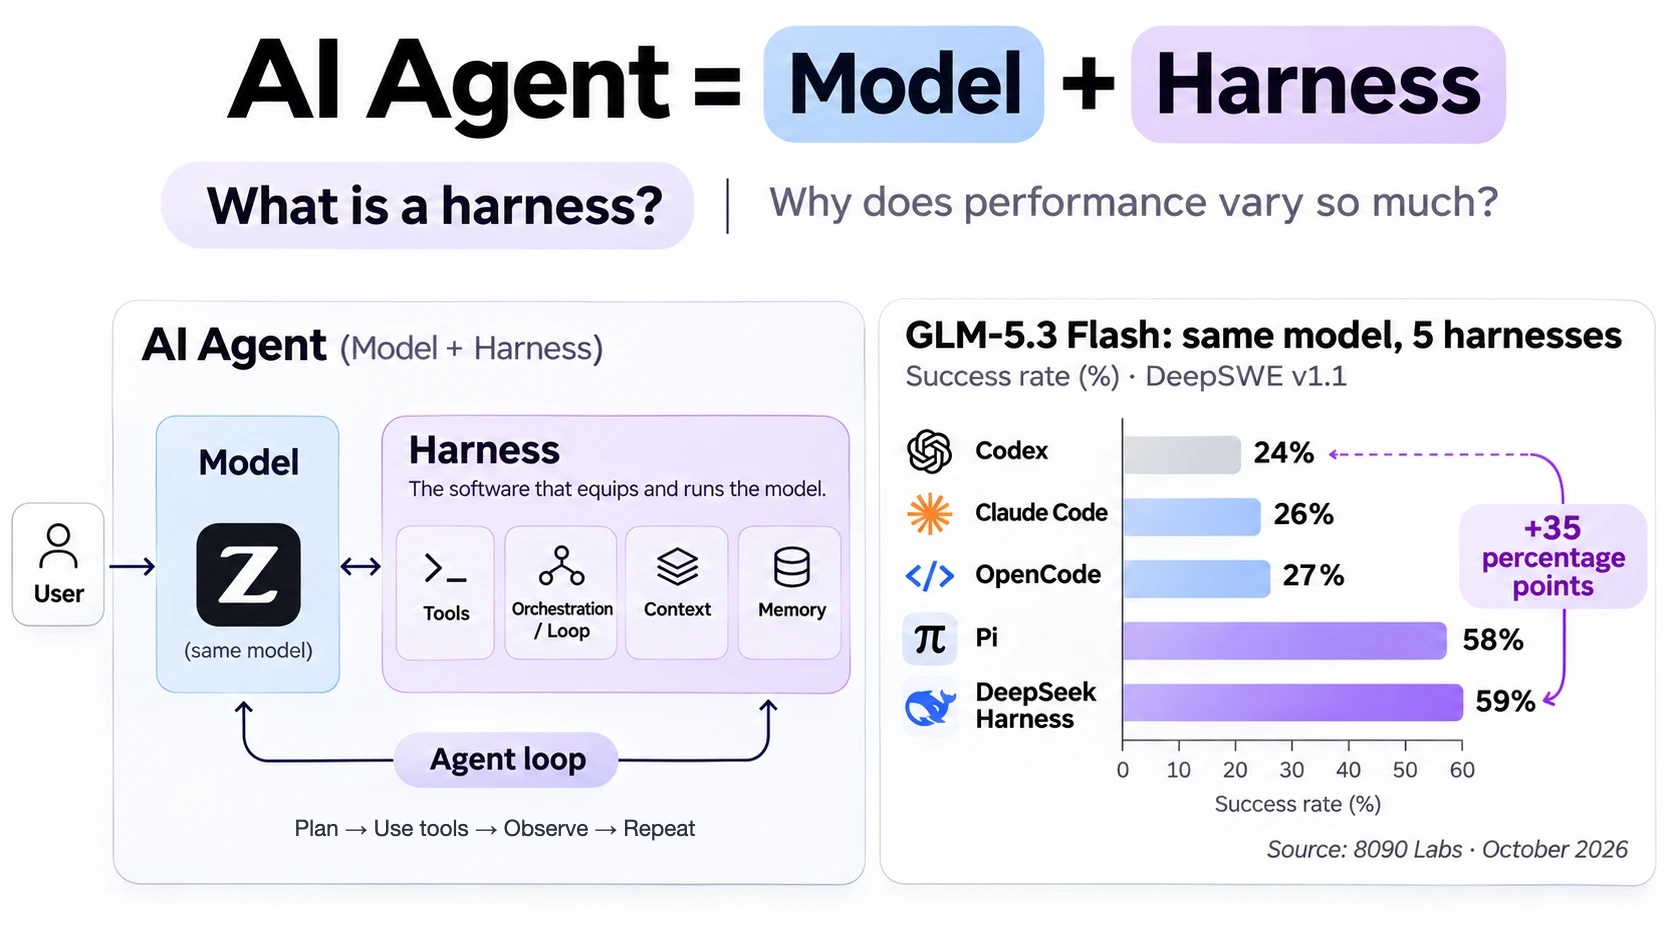
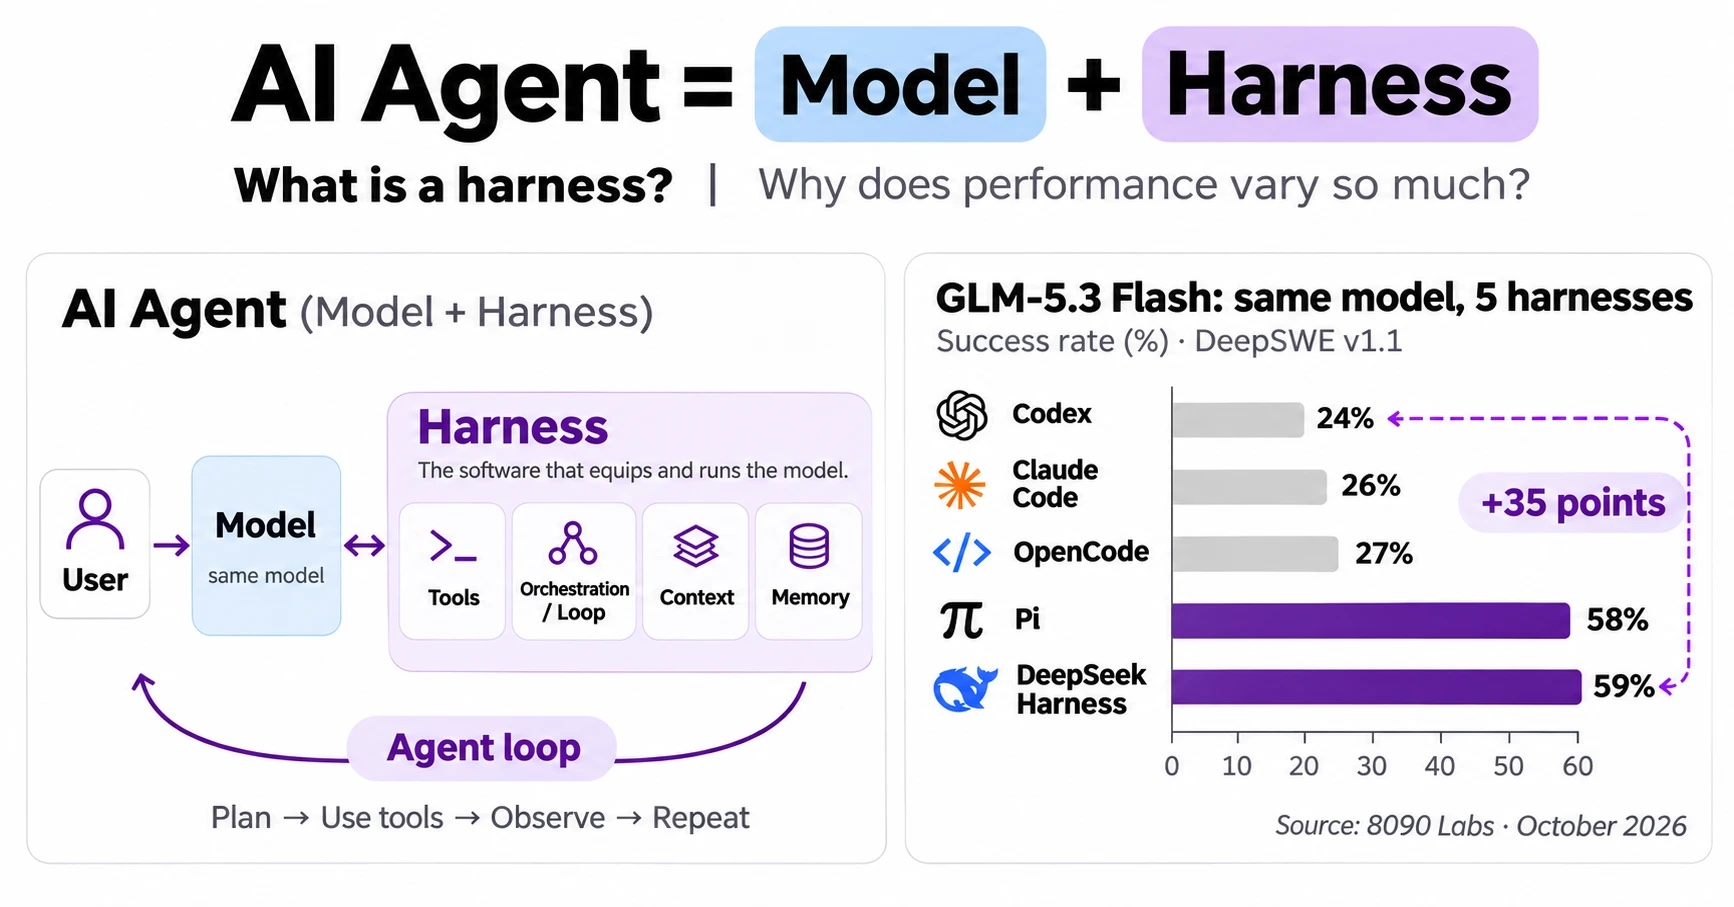
Note harness : nouvelle infographie (ouverture et aperçu LinkedIn)

diff --git a/notes/agent-harness/index.html b/notes/agent-harness/index.html
@@ -193,7 +193,7 @@ html[data-lang="fr"] .L[lang="en"],html:not([data-lang="fr"]) .L[lang="fr"]{disp
   </header>
 
   <article>
-    <figure class="pic hero"><img src="img/infographic.jpg" alt="AI Agent = Model + Harness. Left: the user talks to the model, which works inside a harness made of tools, orchestration, context and memory, in a loop: plan, use tools, observe, repeat. Right: GLM-5.3 Flash success rate in five harnesses, from 24% in Codex to 59% in DeepSeek Harness, a 35-point gap." width="1671" height="941" decoding="async"></figure>
+    <figure class="pic hero"><img src="img/infographic.jpg" alt="AI Agent = Model + Harness. Left: the user talks to the model, which works inside a harness made of tools, orchestration, context and memory, in a loop: plan, use tools, observe, repeat. Right: GLM-5.3 Flash success rate in five harnesses, from 24% in Codex to 59% in DeepSeek Harness, a 35-point gap." width="1734" height="907" decoding="async"></figure>
     <div class="tldr">
       <span class="mono">In three lines</span>
       <ol>
@@ -350,7 +350,7 @@ get_tuition_fees(program_id, campus)</pre>
   </header>
 
   <article>
-    <figure class="pic hero"><img src="img/infographic.jpg" alt="Agent IA = modèle + harness. À gauche : l'utilisateur parle au modèle, qui travaille dans un harness fait d'outils, d'orchestration, de contexte et de mémoire, en boucle : planifier, utiliser les outils, observer, recommencer. À droite : taux de réussite de GLM-5.3 Flash dans cinq harnesses, de 24&nbsp;% dans Codex à 59&nbsp;% dans DeepSeek Harness, soit 35 points d'écart." width="1671" height="941" decoding="async"></figure>
+    <figure class="pic hero"><img src="img/infographic.jpg" alt="Agent IA = modèle + harness. À gauche : l'utilisateur parle au modèle, qui travaille dans un harness fait d'outils, d'orchestration, de contexte et de mémoire, en boucle : planifier, utiliser les outils, observer, recommencer. À droite : taux de réussite de GLM-5.3 Flash dans cinq harnesses, de 24&nbsp;% dans Codex à 59&nbsp;% dans DeepSeek Harness, soit 35 points d'écart." width="1734" height="907" decoding="async"></figure>
     <div class="tldr">
       <span class="mono">En trois lignes</span>
       <ol>
